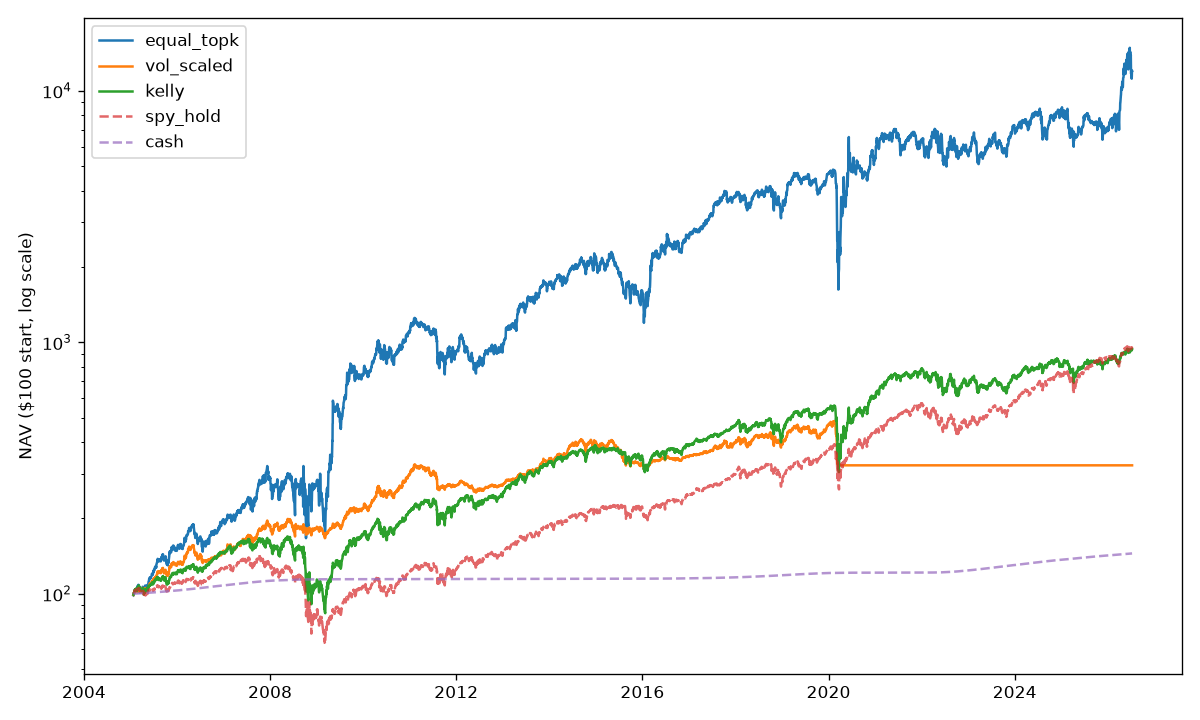
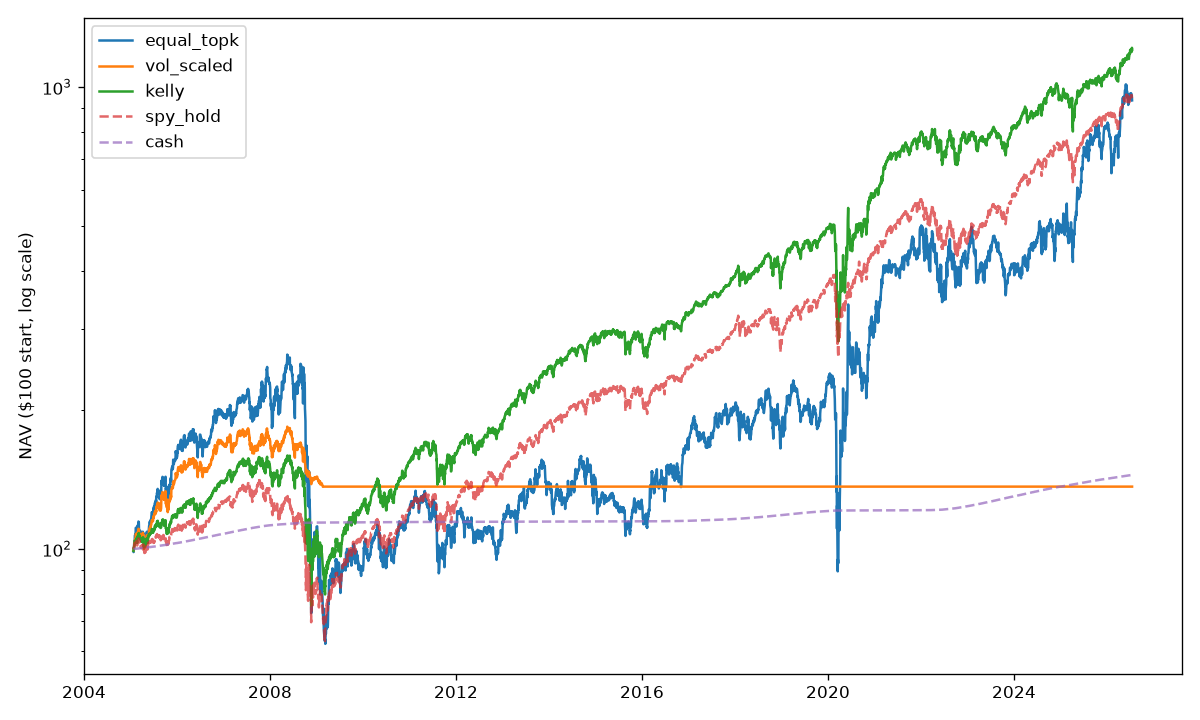
chore: refreshed backtest with 4-fold champion (xgb_tuned 0.0241)

diff --git a/reports/backtest.md b/reports/backtest.md
@@ -1,49 +1,49 @@
 # Backtest report
 
-Champion model: **xgb** · strategies × candidates tried: **12** (used to deflate Sharpe)
+Champion model: **xgb_tuned** · strategies × candidates tried: **27** (used to deflate Sharpe)
 
 ## Headline ($100 invested at start)
 
 | strategy | $100 → | CAGR | Sharpe | Deflated Sharpe | Sortino | max DD | worst week | underwater (d) | costs $ | fits |
 |---|---|---|---|---|---|---|---|---|---|---|
-| equal_topk | $12,170 | 25.1% | 0.76 | 0.97 | 1.28 | 66.7% | -33.7% | 805 | 2,068.53 | 278 |
-| vol_scaled | $328 | 5.7% | 0.53 | 0.78 | 0.81 | 33.3% | -13.9% | 2338 | 84.25 | 278 |
-| kelly | $949 | 11.1% | 0.60 | 0.86 | 0.93 | 50.5% | -20.0% | 806 | 179.45 | 278 |
-| spy_hold | $959 | 11.1% | 0.65 | – | 1.02 | 55.2% | -19.8% | 1773 | – | – |
-| cash | $145 | 1.7% | 14.68 | – | 28,391.73 | 0.0% | -0.0% | 16 | – | – |
+| equal_topk | $949 | 11.0% | 0.47 | 0.56 | 0.77 | 76.4% | -32.2% | 4403 | 153.62 | 278 |
+| vol_scaled | $138 | 1.5% | 0.25 | 0.19 | 0.37 | 25.9% | -6.7% | 6636 | 15.78 | 278 |
+| kelly | $1,216 | 12.3% | 0.66 | 0.84 | 1.03 | 52.7% | -19.2% | 988 | 137.35 | 278 |
+| spy_hold | $945 | 11.0% | 0.65 | – | 1.01 | 55.2% | -19.8% | 1773 | – | – |
+| cash | $145 | 1.7% | 14.69 | – | 28,434.11 | 0.0% | -0.0% | 16 | – | – |
 
 ## Regime-sliced performance (ann. Sharpe / hit rate)
 
 | strategy | bull | bear | high_vol | low_vol |
 |---|---|---|---|---|
-| equal_topk | 1.29 / 54.2% | 0.12 / 48.9% | 0.00 / 48.7% | 2.34 / 56.6% |
-| vol_scaled | 1.24 / 38.4% | -1.03 / 34.5% | -0.80 / 29.4% | 2.06 / 44.2% |
-| kelly | 1.57 / 56.4% | -0.58 / 48.6% | -0.47 / 49.4% | 3.21 / 59.1% |
-| spy_hold | 1.86 / 57.1% | -0.94 / 47.9% | -0.68 / 48.6% | 3.81 / 60.5% |
-| cash | 14.45 / 100.0% | 16.48 / 98.3% | 12.74 / 99.3% | 16.56 / 99.9% |
+| equal_topk | 1.09 / 53.4% | -0.52 / 48.5% | -0.40 / 47.6% | 2.07 / 56.2% |
+| vol_scaled | 0.90 / 7.9% | -0.95 / 16.8% | -0.67 / 7.6% | 1.07 / 11.6% |
+| kelly | 1.70 / 56.6% | -0.64 / 49.4% | -0.38 / 49.7% | 3.34 / 59.5% |
+| spy_hold | 1.85 / 57.1% | -0.94 / 47.9% | -0.68 / 48.6% | 3.79 / 60.5% |
+| cash | 14.47 / 100.0% | 16.48 / 98.3% | 12.74 / 99.3% | 16.58 / 99.9% |
 
 ## Stress windows (total return)
 
 | window | equal_topk | vol_scaled | kelly | spy_hold | cash |
 |---|---|---|---|---|---|
-| GFC | -8.4% | -5.3% | -30.5% | -36.6% | 0.2% |
-| Q4 2018 | -20.5% | -10.7% | -14.4% | -13.8% | 0.6% |
-| COVID crash | -29.3% | -33.1% | -27.1% | -17.0% | 0.1% |
-| 2022 bear | -12.0% | 0.0% | -13.5% | -18.6% | 2.0% |
+| GFC | -72.6% | -19.0% | -38.3% | -36.6% | 0.2% |
+| Q4 2018 | -18.1% | 0.0% | -9.9% | -13.8% | 0.6% |
+| COVID crash | -23.4% | 0.0% | -26.2% | -17.0% | 0.1% |
+| 2022 bear | -16.8% | 0.0% | -4.1% | -18.6% | 2.0% |
 
-## Holdout period (≥ 2024-07-19, never used for model selection)
+## Holdout period (≥ 2024-07-26, never used for model selection)
 
 | strategy | window return |
 |---|---|
-| equal_topk | 48.6% |
+| equal_topk | 90.1% |
 | vol_scaled | 0.0% |
-| kelly | 16.8% |
-| spy_hold | 40.7% |
+| kelly | 32.7% |
+| spy_hold | 39.8% |
 | cash | 8.1% |
 
 ## Honesty notes
 
-- Sharpe deflation assumes 12 strategy/model trials.
+- Sharpe deflation assumes 27 strategy/model trials.
 - Regime flags (SPY 200d SMA, VIX median) use full-sample statistics; they are reporting lenses, not tradable signals.
 - Fundamentals are sparse before ~2009 (EDGAR XBRL phase-in).
 - Delisted tickers missing from the free price source are absent from the panel; residual survivorship bias is reported in the ingestion manifest.
